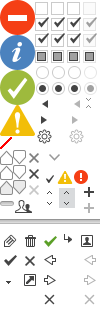
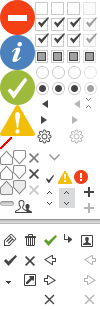
[common] changed styles for comments panel

Changed region(s): [[0.03, 0.7573, 0.18, 0.8155], [0.42, 0.7573, 0.57, 0.8155], [0.24, 0.7573, 0.36, 0.8155]]

diff --git a/apps/common/main/resources/less/comments.less b/apps/common/main/resources/less/comments.less
@@ -265,11 +265,11 @@
     }
 
     .btn-edit {
-        background-position: -2px -233px;
+        background-position: -2px -232px;
     }
 
     .btn-delete {
-        background-position: -22px -233px;
+        background-position: -22px -232px;
     }
 
     .btn-accept {
@@ -293,7 +293,7 @@
             width: 7px;
             height: 12px;
             left: 6px;
-            top: -2px;
+            top: 0px;
         }
 
         &.comment-resolved {
